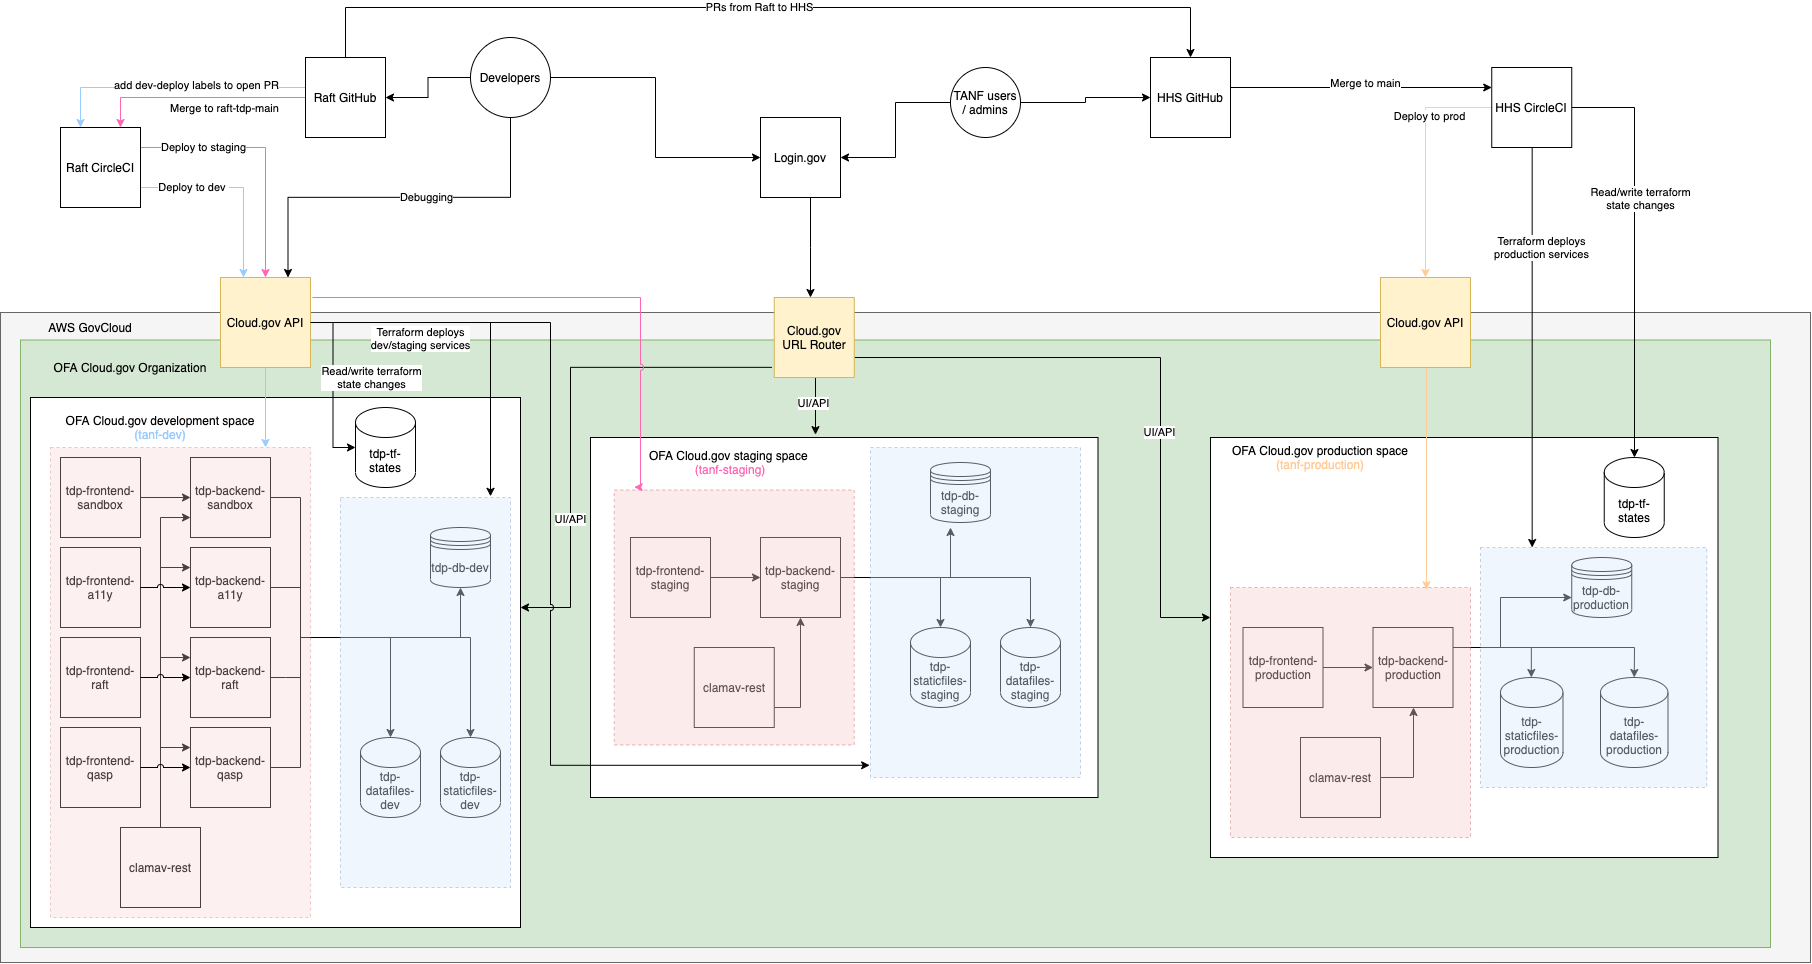
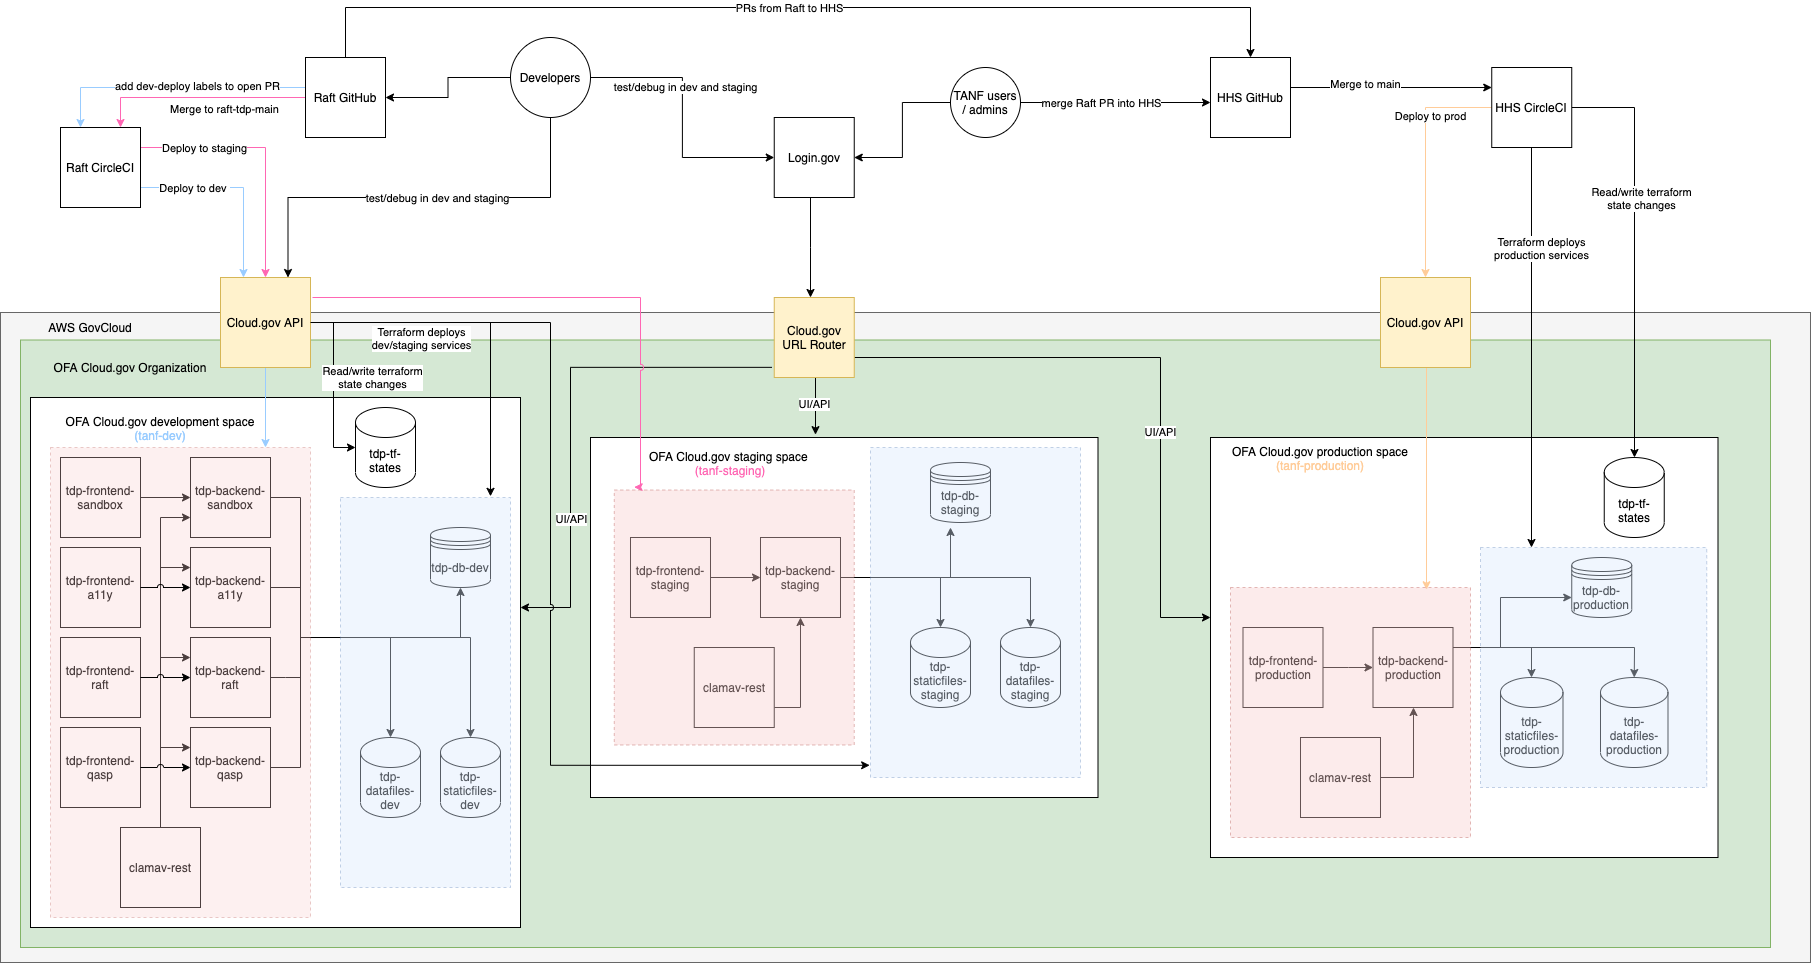
docs: Add note and diagram tweak to clarify developer env access

diff --git a/docs/Technical-Documentation/TDP-environments-README.md b/docs/Technical-Documentation/TDP-environments-README.md
@@ -45,7 +45,7 @@ Unlike Development, the Staging environment contains a single frontend and backe
 
 ## Production
 
-Like Staging, there is only one Production deployment.
+Like Staging, there is only one Production deployment. Note that developers do *not* ever have access to production.
 
 | Frontend URL | Backend URL | Purpose |
 | -------- | -------- | -------- |
